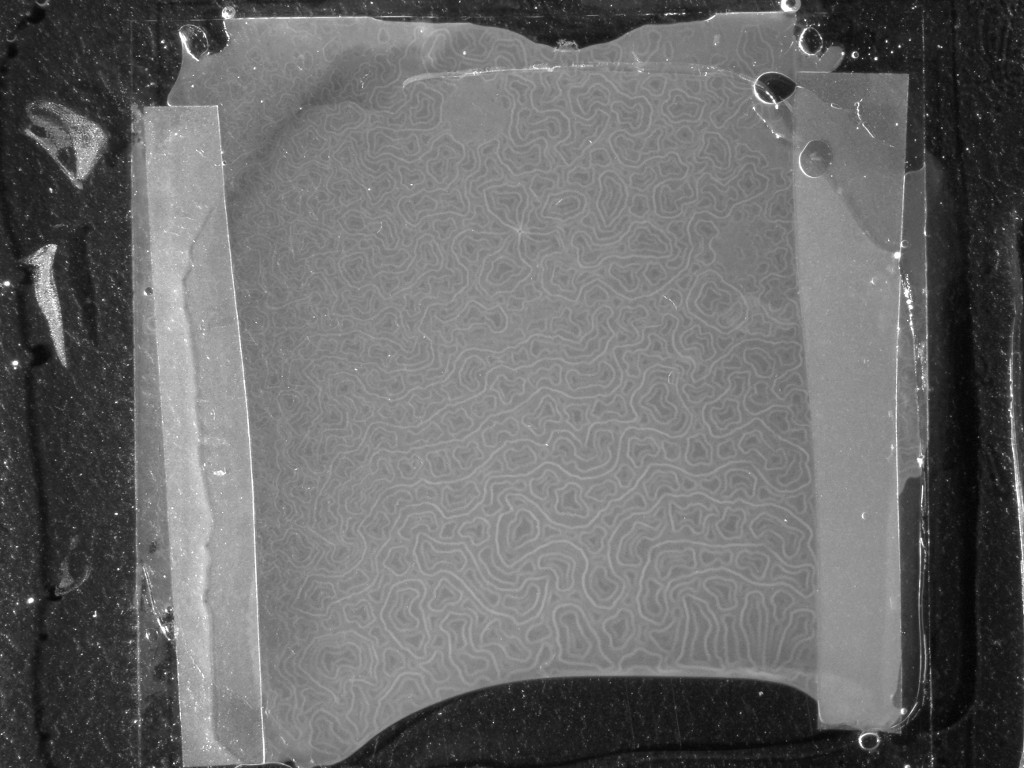
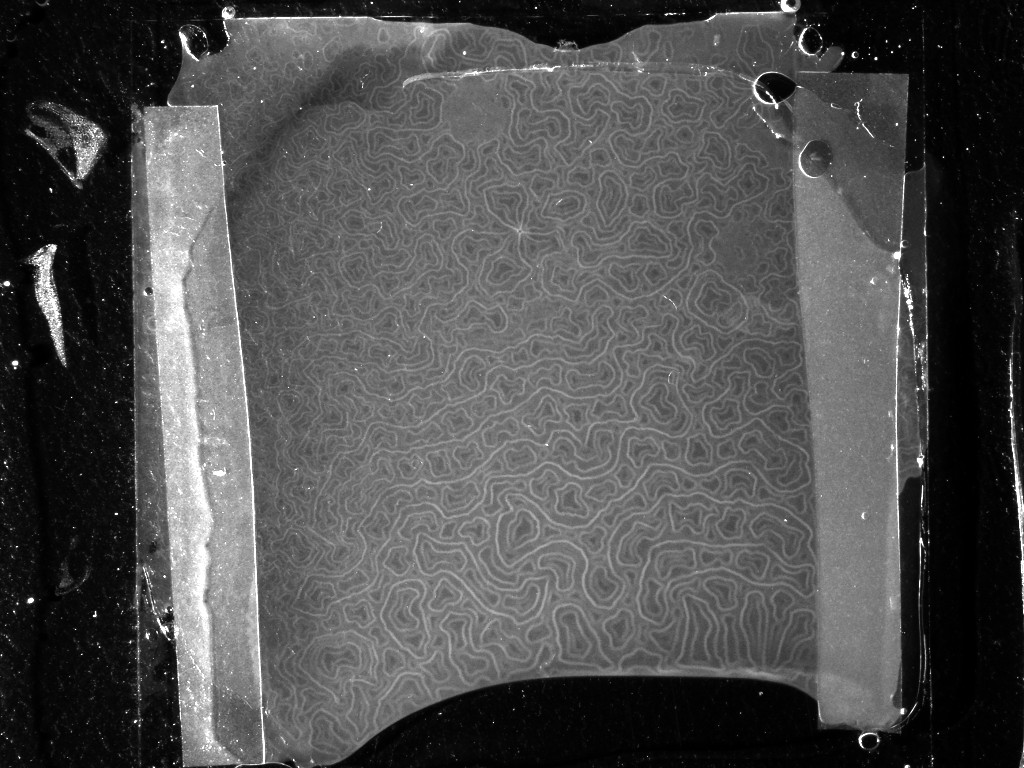
Kinetic

diff --git a/poster_Rome.tex b/poster_Rome.tex
@@ -51,9 +51,9 @@
 \usepackage{ragged2e}
 \RaggedRight
 
-\definecolor{Main}{rgb}{1, 0.66, 0}
-\definecolor{Accent1}{rgb}{1,0.45,0}
-\definecolor{Accent2}{rgb}{0.88,0.66,0}
+\definecolor{Main}{rgb}{1, 0.57, 0}
+\definecolor{Accent1}{rgb}{1,0.28,0}
+\definecolor{Accent2}{rgb}{1,0.74,0}
 
 % see documentation for a0poster class for the size options here
 \let\Textsize\normalsize
@@ -151,6 +151,7 @@ Thibaut Divoux, Sébastien Manneville}
 		xlabel={time (h)}, ylabel={\textcolor{Accent1}{pH}},
 		extra tick style={grid=major},%
 		extra y ticks={4.6}, extra y tick labels={},%
+		extra x ticks={0.55, 0.64, 0.72, 0.80, 1, 1.27, 2.5}, extra x tick labels={},%
 		axis y line*=left,
 		width=0.7\textwidth,
 		]
@@ -170,7 +171,7 @@ Thibaut Divoux, Sébastien Manneville}
 \end{textblock}
 
 \begin{textblock}{7}(4,2.5)
-	\Head{Sealed cell}
+	\Head{Sealed cell, spontaneous pattern}
 	
 	\tikzsetnextfilename{cell_brushes}
 	\tikzset{external/force remake}
@@ -188,12 +189,12 @@ Thibaut Divoux, Sébastien Manneville}
 	\item Adhesion at the edge (solid spacers, no free interface)
 	\end{itemize}
 	
-	\begin{tikzpicture}[inner sep=0, anchor=north west, thick]
-	\node (a) {\includegraphics{cas3p2_fluo0p8_GDL4_50um_coating_2_zoom2}};
-	\node at (a.north east) (b) {\includegraphics{cas3p2_fluo0p8_GDL4_50um_coating_2_zoom6}};
-	\node at (b.north east) (c) {\includegraphics[height=65mm]{cas3p2_fluo0p8_GDL4_50um_coating_2_transmission}};
-	\draw[Accent2] (36.4mm, -25mm) rectangle +(28.9mm,-21.7mm);
-	\draw[Main] (b.north west) ++(34mm,-34mm) rectangle +(27mm,-19.7mm);
+	\begin{tikzpicture}[inner sep=0, very thick]
+	\node[anchor=west] (a) {\includegraphics{cas3p2_fluo0p8_GDL4_50um_coating_2_zoom2}};
+	\node at (3.5\TPHorizModule,0) (b) {\includegraphics{cas3p2_fluo0p8_GDL4_50um_coating_2_zoom6}};
+	\node[anchor=east] at (7\TPHorizModule,0) (c) {\includegraphics[height=65mm]{cas3p2_fluo0p8_GDL4_50um_coating_2_transmission}};
+	\draw[Accent2] (a.north west) ++(36.4mm, -25mm) rectangle +(28.9mm,-21.7mm) -- (b.south west) (a.north west) ++(65.3mm, -25mm) -- (b.north west);
+	\draw[Main] (b.north west) ++(34mm,-34mm) rectangle +(27mm,-19.7mm) -- (c.south west) (b.north west) ++(61mm,-34mm) --(c.north west);
 	\draw[Accent1] (c.south west) ++(29mm,29mm) rectangle +(36mm,36mm);
 	%\includegraphics{cas3p2_fluo0p8_GDL4_50um_coating_2_zoom6}
 	%\includegraphics[height=65mm]{cas3p2_fluo0p8_GDL4_50um_coating_2_transmission}
@@ -201,45 +202,98 @@ Thibaut Divoux, Sébastien Manneville}
 
 \end{textblock}
 
-\begin{textblock}{3}(8,4.5)
-	%\Head{Size distribution}
+\begin{textblock}{15}(0,8)
+	\Head{Kinetic by transmission macroscope}
+	\begin{tabular*}{\textwidth}{@{\extracolsep{\fill}}ccccccc}
+	33 min & 38 min & 43 min & 48 min & 1h & 1h15 & 2h30\\
+	\includegraphics[width=2\TPHorizModule]{prise_0100_resized.jpg}&
+	\includegraphics[width=2\TPHorizModule]{prise_0130_resized.jpg}&
+	\includegraphics[width=2\TPHorizModule]{prise_0160_resized.jpg}&
+	\includegraphics[width=2\TPHorizModule]{prise_0190_resized.jpg}&
+	\includegraphics[width=2\TPHorizModule]{prise_0250_resized.jpg}&
+	\includegraphics[width=2\TPHorizModule]{prise_0360_resized.jpg}&
+	\includegraphics[width=2\TPHorizModule]{prise_0799_resized.jpg}\\
+	\end{tabular*}
+\end{textblock}
+
+\begin{textblock}{3}(0,10)
+	\Subhead{Length scales}
+	\begin{itemize}
+	\item A fundamental that does not evolve
+	\item Nested structures as ``harmonics''
+	\end{itemize}
+	\Subhead{Qualitatively different from}
+	\begin{itemize}
+	\item phase separation patterns 
+	\item Turing patterns
+	\item usual wrinkles
+	\end{itemize}	 
+\end{textblock}
+
+\begin{textblock}{11}(4,11)
+	\Head{Confocal Microscopy}
+\end{textblock}
+
+\begin{textblock}{3}(4,11)
+	\addvspace{2em}
+	\Subhead{Procedure}
+	\begin{itemize}
+		\item Fluorescently label 20\% of the casein
+		\item A confocal slice every \SI{5}{\micro\metre}
+		\item $(\SI{1.3}{\milli\metre})^2 \times \SI{120}{\micro\metre}$
+		\item[$\Rightarrow$] Protein density field
+		\item Detect top and bottom surfaces of the gel phase
+	\end{itemize}
+\end{textblock}
+
+\begin{textblock}{2}(8,11)
+	\addvspace{2em}
+	\Subhead{Final state}
 	
+	\includegraphics[width=\textwidth]{collage_cut}
+		
+	Tilled, enhanced relief
 \end{textblock}
-
-\begin{textblock}{7}(0,8)
-	\Head{Single-scale tracking\ldots of polydisperse particles}
 	
-\end{textblock}
 
-\begin{textblock}{3}(8,8)
-	\Head{Scale space}
+\begin{textblock}{4}(11,11)
+	\addvspace{2em}
+	\Subhead{Volume}
 	
+	\begin{tikzpicture}
+	\begin{axis}[%
+		xmin=0, xtick={20,40,...,160},
+		ymin=0.5, ymax=1, 
+		xlabel={time (min)}, ylabel={$V_\text{gel}/V_\text{cell}$},
+		extra tick style={grid=major},%
+		extra x ticks={33, 38, 43, 48, 58, 77, 150}, extra x tick labels={},%
+		%width=2.65\TPHorizModule,
+		width=3.65\TPHorizModule,
+		%width=0.8\textwidth, 
+		height=1.5\TPVertModule,
+		]
+	\addplot+[no marks,Accent1] table[x expr={\thisrowno{0}/60.+3}]{cas4_GDL4_fluo0p4_2.volume};
+	\end{axis}
+	\end{tikzpicture}
 \end{textblock}
 
-\begin{textblock}{3}(12,8)
-	\Head{Multiscale tracking}
-	
-\end{textblock}
-\begin{textblock}{4}(0,15.85)
-\end{textblock}
-
-
-\begin{textblock}{3.75}(11.25,15.85)
-	
-\end{textblock}
-
-\begin{textblock}{3}(0,12.1)
-	\Head{Buoyancy control}
-	\Subhead{by temperature control}
-\end{textblock}
-
-\begin{textblock}{7}(4,12.1)
-	\Head{Size distributions within local structures}
-	
+\begin{textblock}{15}(0,14)
+	\Head{Kinetic by confocal microscope}
+	\begin{tabular*}{\textwidth}{@{\extracolsep{\fill}}ccccccc}
+	\includegraphics[width=2\TPHorizModule]{cas3p2_fluo0p8_GDL4_2_t047_crop_resized.jpg}&
+	\includegraphics[width=2\TPHorizModule]{cas3p2_fluo0p8_GDL4_2_t056_crop_resized.jpg}&
+	\includegraphics[width=2\TPHorizModule]{cas3p2_fluo0p8_GDL4_2_t065_crop_resized.jpg}&
+	\includegraphics[width=2\TPHorizModule]{cas3p2_fluo0p8_GDL4_2_t074_crop_resized.jpg}&
+	\includegraphics[width=2\TPHorizModule]{cas3p2_fluo0p8_GDL4_2_t092_crop_resized.jpg}&
+	\includegraphics[width=2\TPHorizModule]{cas3p2_fluo0p8_GDL4_2_t125_crop_resized.jpg}&
+	\includegraphics[width=2\TPHorizModule]{cas3p2_fluo0p8_GDL4_2_t260_crop_resized.jpg}\\
+\end{tabular*}
 \end{textblock}
 
 
-\begin{textblock}{15}(0,21.5)
+
+
+\begin{textblock}{15}(0,16)
 	\Head{Heterogeneous nucleation, Exclusion of small particles \& Formation of grain boundaries}
 	
 \end{textblock}
